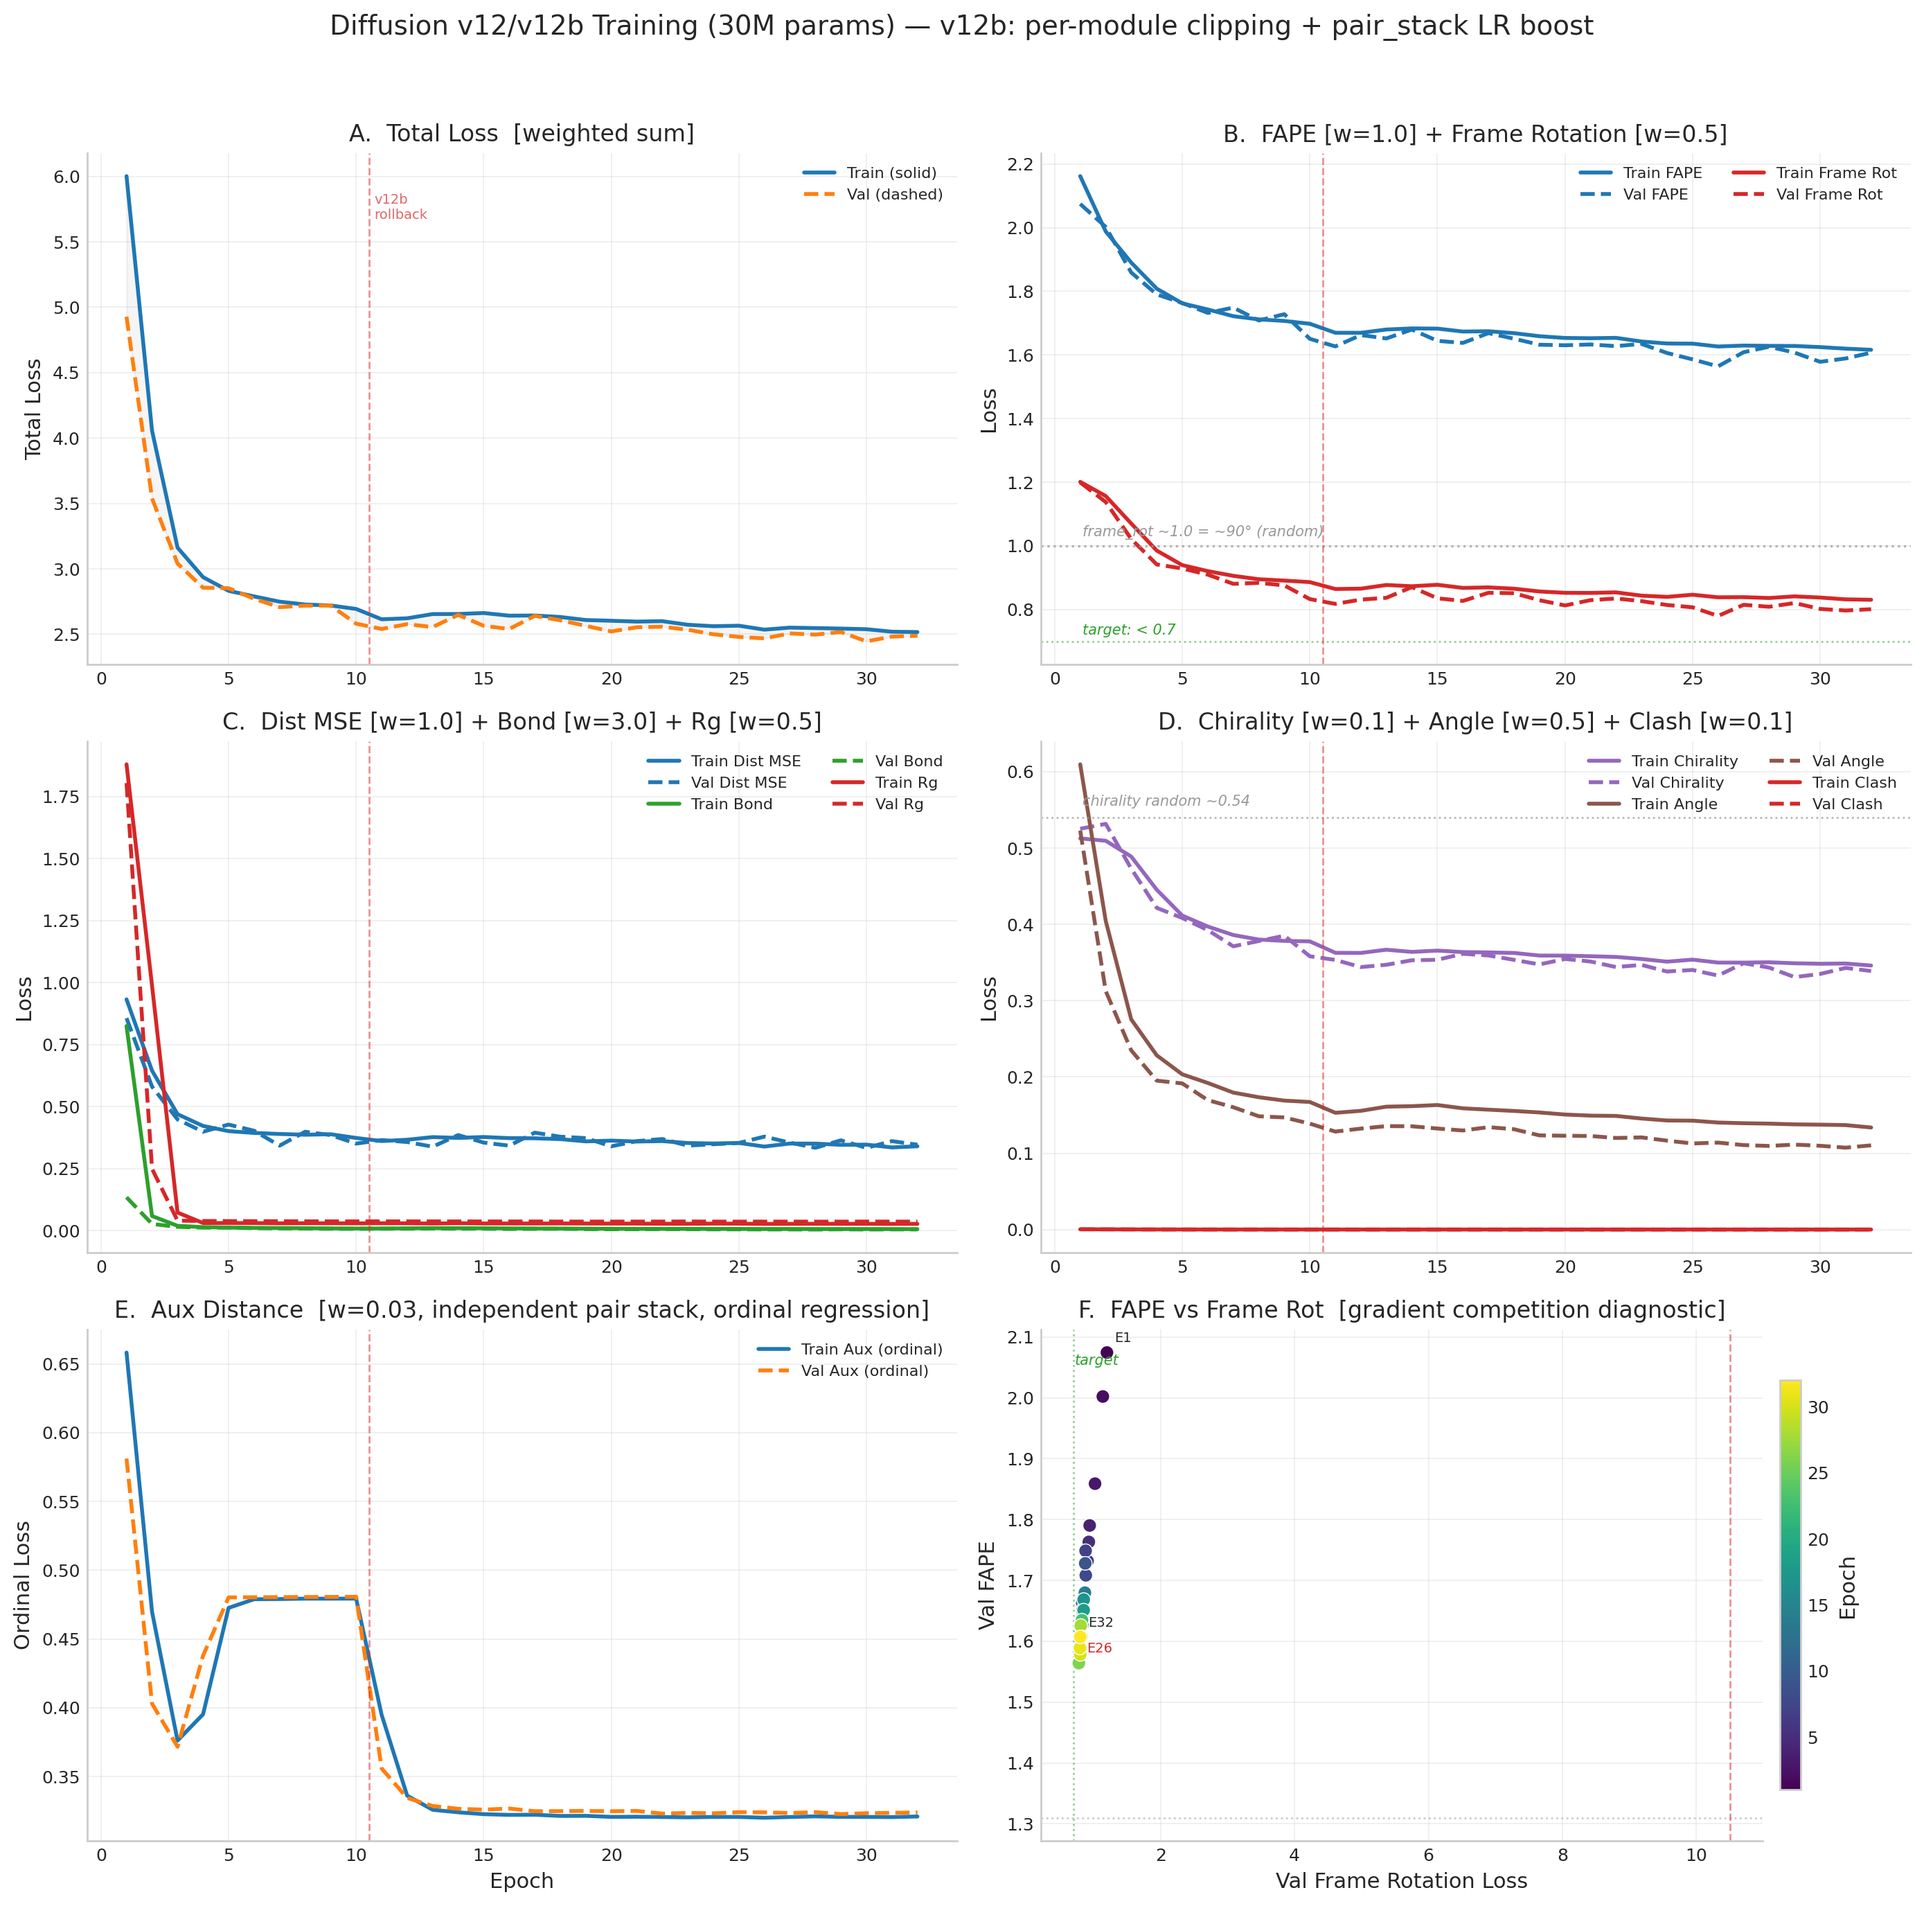
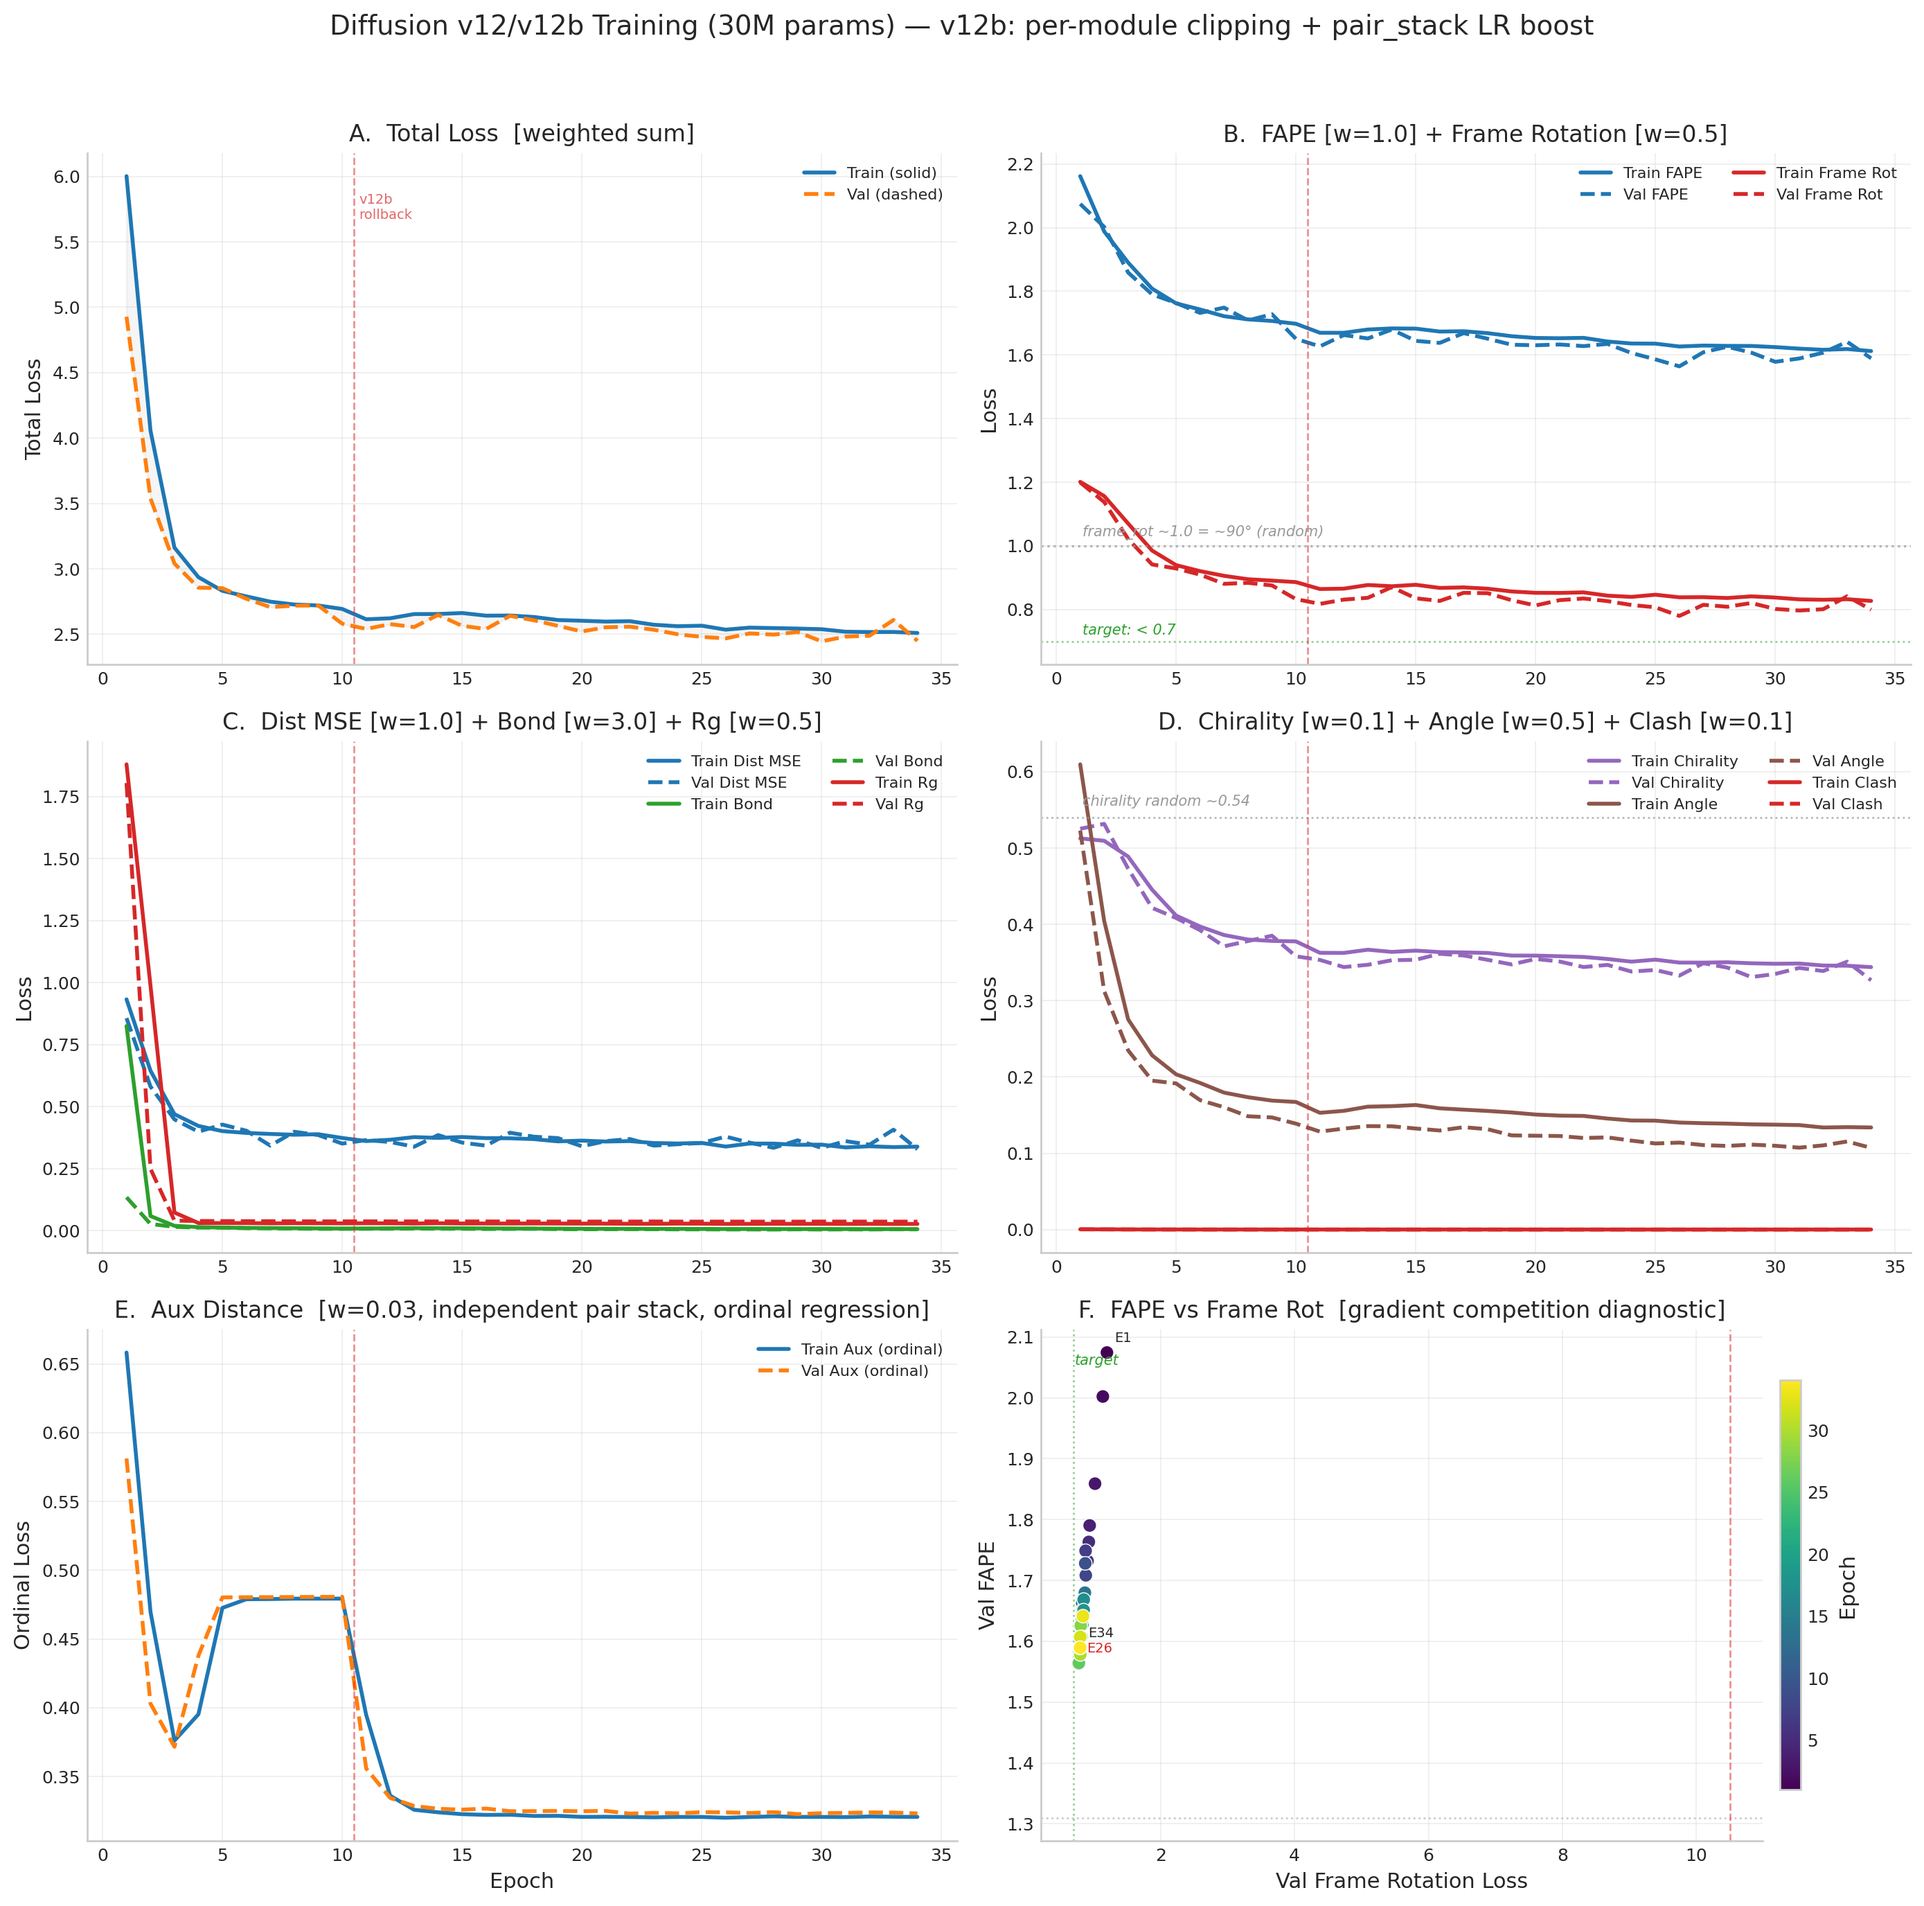
v12b E23-E24: b24 nearly matches best (2.450 vs 2.446), pat 4/15

diff --git a/index.html b/index.html
@@ -1655,6 +1655,28 @@
                 <td>17.42&Aring;</td>
                 <td><span class="tag tag-pat">pat 2</span></td>
               </tr>
+              <tr style="background: rgba(31, 119, 180, 0.12);">
+                <td>b23</td>
+                <td>2.609</td>
+                <td>1.641</td>
+                <td>0.842</td>
+                <td>0.408</td>
+                <td>0.006</td>
+                <td>0.106</td>
+                <td>17.61&Aring;</td>
+                <td><span class="tag tag-pat">pat 3</span></td>
+              </tr>
+              <tr style="background: rgba(31, 119, 180, 0.12);">
+                <td>b24</td>
+                <td>2.450</td>
+                <td>1.589</td>
+                <td>0.799</td>
+                <td>0.329</td>
+                <td>0.006</td>
+                <td>0.102</td>
+                <td>17.80&Aring;</td>
+                <td><span class="tag tag-pat">pat 4</span></td>
+              </tr>
             </tbody>
           </table>
         </div>
@@ -1863,10 +1885,10 @@
 
         <!-- Status / Live interpretation -->
         <div class="training-pending-note" id="v9-run2-status" style="border-left: 3px solid #1f77b4;">
-          <strong style="color: #2ca02c;">v12b Training &mdash; b20 NEW BEST, consolidating at b21-b22</strong>
+          <strong style="color: #2ca02c;">v12b Training &mdash; b20 best, b24 nearly matches (pat 4/15)</strong>
           <ul style="margin: 6px 0 6px 18px; font-size: 0.95em;">
-            <li><strong>b20 remains best:</strong> val_total <strong>2.446</strong>, val FAPE <strong>1.578</strong>, frame_rot <strong>0.802</strong>. b21-b22 show mild patience (pat 2/15) with val_total 2.48-2.49, close to best. Train loss still declining (2.52&rarr;2.52), no signs of overfitting.</li>
-            <li><strong>Pattern: consolidate then breakthrough.</strong> b14&rarr;b16 gave 3 consecutive bests, b17-b19 consolidated (pat 3), b20 broke through. Now b21-b22 consolidating again (pat 2). Expecting another push soon. LR at 1.49e-5 (cosine decay), plenty of schedule remaining.</li>
+            <li><strong>b20 remains best:</strong> val_total <strong>2.446</strong>, val FAPE <strong>1.578</strong>, frame_rot <strong>0.802</strong>. b23 had a noisy val spike (2.609) but b24 recovered to 2.450 &mdash; within 0.004 of best. Pat 4/15, no real regression.</li>
+            <li><strong>Train loss still declining:</strong> 2.520&rarr;2.517&rarr;2.518&rarr;2.510. The model continues learning; val noise is from small val set (608 proteins). LR at 1.39e-5 (cosine decay), still well above eta_min=1e-6. Expecting another breakthrough soon.</li>
             <li><strong>v12 E11-E13 regression diagnosed:</strong> Gradient starvation via global <code>clip_grad_norm_(1.0)</code>. Denoiser (28.5M params) consumed 99%+ of gradient budget. pair_stack_norm collapsed mid-E12: 0.125&rarr;0.007&rarr;0.000.</li>
             <li><strong>Gradient cosine diagnostic confirmed:</strong> No gradient competition. FAPE &amp; frame_rot are <em>aligned</em> (+0.57 cosine). dist_mse is near-orthogonal to both (+0.14). Losses do not oppose each other &mdash; the regression was purely gradient starvation, not conflicting objectives.</li>
             <li><strong>v12b fixes applied (rolling back to E10 EMA weights):</strong>
